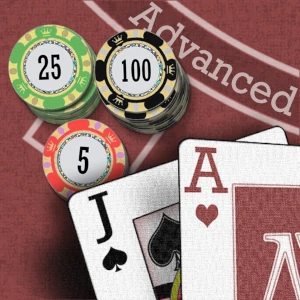
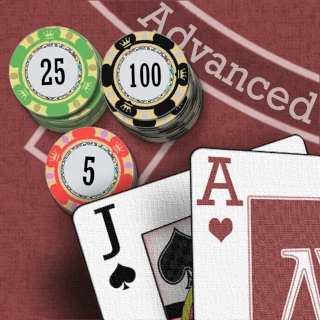
Resize images, refactor

diff --git a/src/pages/index.tsx b/src/pages/index.tsx
@@ -13,9 +13,35 @@ import { Footer } from "../components/Footer";
 import { Header } from "../components/Header";
 import { Main } from "../components/Main";
 import { ProjectCard } from "../components/ProjectCard";
-import { personalProjects, professionalProjects } from "../lib/constants";
+import { personalProjects, professionalProjects, Project } from "../lib/constants";
 import * as serviceWorker from "../lib/serviceWorker";
 import theme from "../lib/theme";
+
+const Section: React.FC<{
+  id: string
+  title: string
+  projects: { [key: string]: Project }
+}> = ({
+  id,
+  title,
+  projects
+}) => (
+    <Stack spacing="0.5rem" as="section" aria-labelledby={id}>
+      <Heading as="h2" id={id}>{title}</Heading>
+
+      <Flex
+        wrap="wrap"
+        justifyContent="space-evenly"
+      >
+        {Object.values(projects).sort((p1, p2) => p2.year - p1.year).map(project => (
+          <ProjectCard
+            key={project.name}
+            project={project}
+          />
+        ))}
+      </Flex>
+    </Stack>
+  );
 
 const Index: NextPage = () => {
   useEffect(() => {
@@ -47,37 +73,17 @@ const Index: NextPage = () => {
           I&apos;m a Software Engineer Manager at <Link isExternal href="https://www.microsoft.com">Microsoft</Link>. I am passionate about building websites that can be used by everyone and a <Text as="span" display="inline-block">gamer 🎮.</Text>
         </Text>
 
-        <Stack spacing="0.5rem">
-          <Heading as="h2">Experience</Heading>
+        <Section
+          id="experience"
+          title="Experience"
+          projects={professionalProjects}
+        />
 
-          <Flex
-            wrap="wrap"
-            justifyContent="space-evenly"
-          >
-            {Object.values(professionalProjects).sort((p1, p2) => p2.year - p1.year).map(project => (
-              <ProjectCard
-                key={project.name}
-                project={project}
-              />
-            ))}
-          </Flex>
-        </Stack>
-
-        <Stack spacing="0.5rem">
-          <Heading as="h2">Personal Projects</Heading>
-
-          <Flex
-            wrap="wrap"
-            justifyContent="space-evenly"
-          >
-            {Object.values(personalProjects).sort((p1, p2) => p2.year - p1.year).map(project => (
-              <ProjectCard
-                key={project.name}
-                project={project}
-              />
-            ))}
-          </Flex>
-        </Stack>
+        <Section
+          id="projects"
+          title="Personal Projects"
+          projects={personalProjects}
+        />
       </Main>
 
       <Footer />

diff --git a/src/components/ProjectCard.tsx b/src/components/ProjectCard.tsx
@@ -37,7 +37,7 @@ export const ProjectCard = ({ project }: { project: Project }) => {
                 />
 
                 <VStack p={6} pt={3} spacing={4}>
-                    <Heading fontSize="2xl" fontFamily="body">
+                    <Heading fontSize="2xl" fontFamily="body" as="h3">
                         {project.name}
                     </Heading>
 
@@ -49,9 +49,16 @@ export const ProjectCard = ({ project }: { project: Project }) => {
                         {project.content}
                     </Text>
 
-                    <Stack align="center" justify="center" direction="row" mt={6}>
+                    <Stack
+                        align="center"
+                        justify="center"
+                        direction="row"
+                        mt={6}
+                        as="ul"
+                    >
                         {project.tags.map(tag => (
                             <Badge
+                                as="li"
                                 key={tag}
                                 px={2}
                                 py={1}

diff --git a/src/lib/constants.tsx b/src/lib/constants.tsx
@@ -65,7 +65,7 @@ export const professionalProjects: { [key: string]: Project } = {
         year: 2015,
         name: "Microsoft Account",
         image: microsoftaccount,
-        content: <Text as="span">Consolidated multiple forms of data in one <Link isExternal href="https://account.microsoft.com/services">website</Link> for users to manage all Microsoft subscriptions</Text>,
+        content: <Text as="span">Consolidated multiple forms of data in one <Link isExternal href="https://account.microsoft.com/services" aria-label="Microsoft Account">website</Link> for users to manage all Microsoft subscriptions</Text>,
         tags: ["ASP.NET MVC 5", "AngularJs", "MWF"]
     },
     excelOnline: {

diff --git a/src/components/Header.tsx b/src/components/Header.tsx
@@ -19,11 +19,7 @@ import React from "react";
 import { headerLinks } from "../lib/constants";
 import { ChakraNextImage } from "./ChakraNextImage";
 
-const NavLink = ({
-    children
-}: {
-    children: React.ReactNode
-}) => (
+const NavLink: React.FC = ({ children }) => (
     <Box
         as="li"
         listStyleType="none"
@@ -44,7 +40,7 @@ const NavLink = ({
     </Box>
 );
 
-export const Header = () => {
+export const Header: React.FC = () => {
     const { colorMode, toggleColorMode } = useColorMode();
     const { isOpen, onOpen, onClose } = useDisclosure();
 

diff --git a/src/components/Footer.tsx b/src/components/Footer.tsx
@@ -13,7 +13,7 @@ import React from "react";
 
 import { SocialLink, socialLinks } from "../lib/constants";
 
-const SocialButton = ({ link }: { link: SocialLink }) => (
+const SocialButton: React.FC<{ link: SocialLink }> = ({ link }) => (
   <Tooltip label={link.name}>
     <IconButton
       rounded="full"
@@ -30,7 +30,7 @@ const SocialButton = ({ link }: { link: SocialLink }) => (
   </Tooltip>
 );
 
-export const Footer = () => (
+export const Footer: React.FC = () => (
   <Box
     as="footer"
     w="full"

diff --git a/src/lib/Chakra.tsx b/src/lib/Chakra.tsx
@@ -6,7 +6,10 @@ import {
 
 import theme from "./theme";
 
-export function Chakra({ cookies, children }) {
+export const Chakra: React.FC<{ cookies: unknown }> = ({
+  cookies,
+  children
+}) => {
   const colorModeManager = typeof cookies === "string"
     ? cookieStorageManager(cookies)
     : localStorageManager;
@@ -16,7 +19,7 @@ export function Chakra({ cookies, children }) {
       {children}
     </ChakraProvider>
   );
-}
+};
 
 export function getServerSideProps({ req }) {
   return {

diff --git a/src/pages/_app.tsx b/src/pages/_app.tsx
@@ -4,7 +4,7 @@ import React from "react";
 
 import { Chakra } from "../lib/Chakra";
 
-const MyApp = ({ Component, pageProps }: AppProps) => (
+const MyApp: React.FC<AppProps> = ({ Component, pageProps }) => (
   <Chakra cookies={pageProps.cookies}>
     <Head>
       <title>Carles Moreno</title>

diff --git a/src/components/Container.tsx b/src/components/Container.tsx
@@ -1,6 +1,6 @@
 import { Flex, FlexProps, useColorModeValue } from "@chakra-ui/react";
 
-export const Container = (props: FlexProps) => (
+export const Container: React.FC<FlexProps> = (props) => (
   <Flex
     direction="column"
     alignItems="center"

diff --git a/src/components/Main.tsx b/src/components/Main.tsx
@@ -1,6 +1,6 @@
 import { Stack, StackProps } from "@chakra-ui/react";
 
-export const Main = (props: StackProps) => (
+export const Main: React.FC<StackProps> = (props) => (
   <Stack
     spacing="1.5rem"
     w="full"
